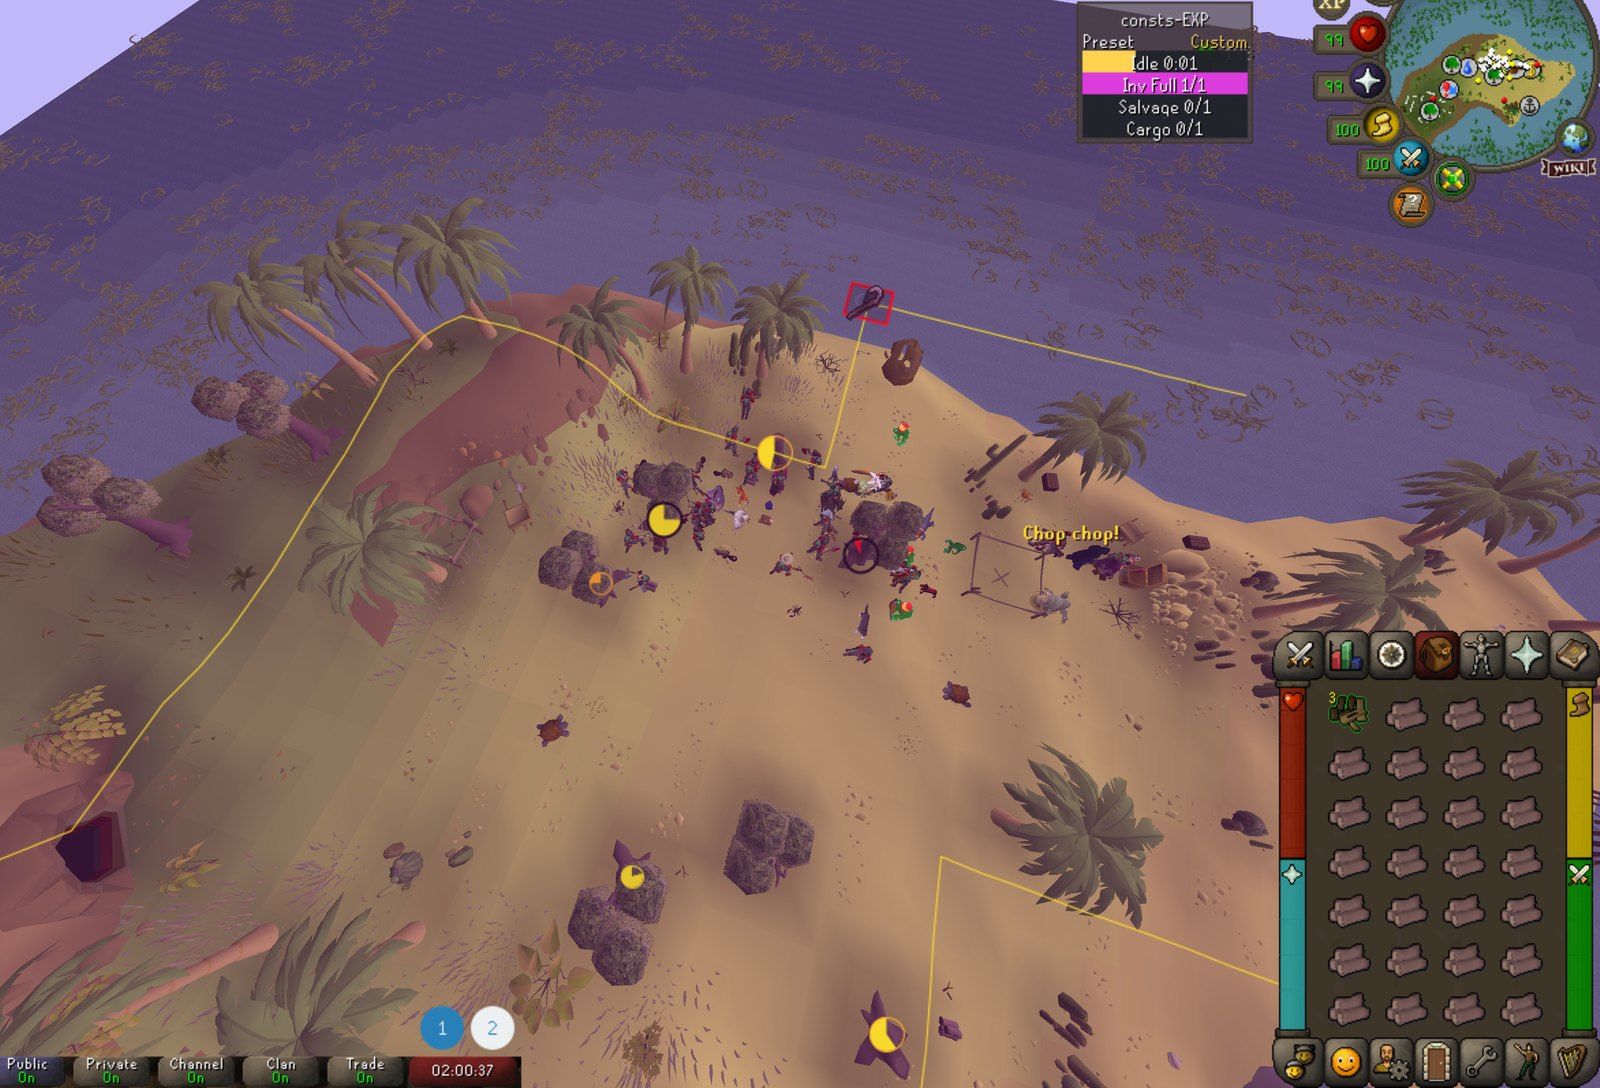
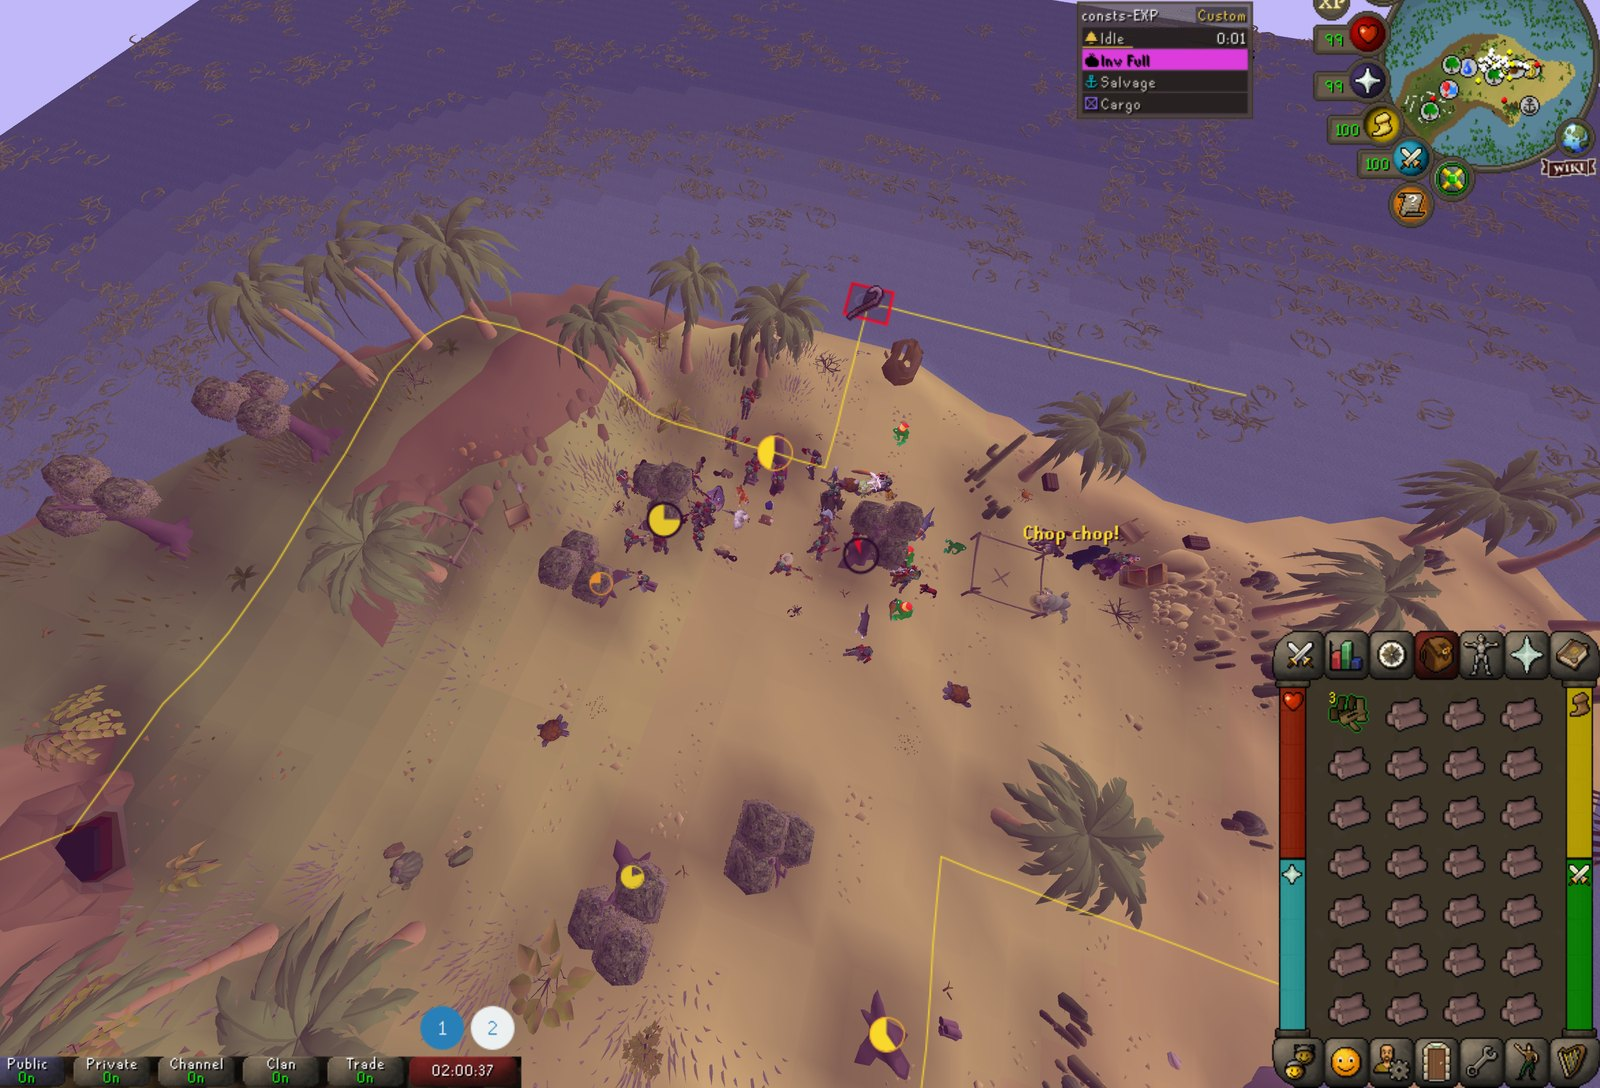
consts-EXP: the README, GIF and screenshots show the new panel
The README's status panel text says what each row shows: icon, name and
value, the thin line under a quiet row, a firing row that lights up and
pulses, Idle's hourglass, and the pause countdown under the alerts. Show
Animation ID is gone from it, and Idle's hold names the hourglass.

The GIF is cut again from the landing page's hero, now drawn as the new
panel, the way ec20ac9 and the rename cut it: the panel and the flash
around it at 2x, every 80 ms of the 16 s story, identical frames merged,
one 128-color palette. Same size, frames and timing as before.

In the three screenshots from the game, the old panel is replaced by
the new one, rendered headless by the real overlay in each shot's state
(Custom with Idle, Inv Full, Salvage and Cargo; Idle firing at 0:08, or
Idle at 0:01 with Inv Full firing). It is scaled and placed where the
old one was, fitted to it. Behind the panel's translucent box the ground
is un-tinted; where the old bars and text hid it, it is filled in, along
the horizon above the bars, and with the ground from just below in the
strip the shorter panel no longer covers. Only the 16 px blocks around
the panel are re-encoded, with each file's own tables (jpegtran -drop).
They can be retaken in game.

Changed region(s): [[0.6562, 0.0, 0.7812, 0.1562]]

diff --git a/consts-exp/README.md b/consts-exp/README.md
@@ -2,15 +2,15 @@
 
 <img src="icon.png" alt="" width="48" height="72" align="right">
 
-RuneLite plugin for Old School RuneScape ( OSRS ), the all-in-one XP helper. Today that's AFK alerts, with presets for chinning, crabbing, mining, woodcutting, fishing and salvaging. Each alert beeps, flashes the screen in its own color, and shows up as a bar in a top-right status panel. Pick a preset and only the alerts you need are on.
+RuneLite plugin for Old School RuneScape ( OSRS ), the all-in-one XP helper. Today that's AFK alerts, with presets for chinning, crabbing, mining, woodcutting, fishing and salvaging. Each alert beeps, flashes the screen in its own color, and lights up its row in a top-right status panel. Pick a preset and only the alerts you need are on.
 
-![The status panel on the Woodcutting preset: Idle fills and flashes yellow, Inv Full flashes magenta, then Forestry flashes lime and names the event](screenshots/status-panel.gif)
+![The status panel on the Woodcutting preset: the line under Idle fills, then its row flashes yellow, Inv Full flashes magenta, then Forestry flashes lime and names the event](screenshots/status-panel.gif)
 
-![The inventory fills while woodcutting: the screen flashes magenta and the Inv Full bar lights up](screenshots/inventory-full.jpg)
+![The inventory fills while woodcutting: the screen flashes magenta and the Inv Full row lights up](screenshots/inventory-full.jpg)
 
 | Idle | Inventory full |
 |---|---|
-| ![The Idle bar lit yellow, the screen tinted yellow](screenshots/panel-idle.jpg) | ![The Inv Full bar lit magenta, the screen tinted magenta](screenshots/panel-inventory-full.jpg) |
+| ![The Idle row lit yellow, the screen tinted yellow](screenshots/panel-idle.jpg) | ![The Inv Full row lit magenta, the screen tinted magenta](screenshots/panel-inventory-full.jpg) |
 
 Formerly **consts-AFK**, and before that **AFK Alerts**. 2.0.0 starts fresh: every setting is back at its default, and the saved aggro area is gone.
 
@@ -31,7 +31,7 @@ The **Preset** dropdown sits at the top of the plugin config, and of the bell's 
 
 Cannon and Random aren't in any preset; turn them on under **Custom**.
 
-Every preset holds Idle while your character is animating, so a long chop or a slow catch doesn't ding you mid-action; the status panel then shows your current animation. Under **Custom**, **Suppress While Animating** (Idle, on by default) decides.
+Every preset holds Idle while your character is animating, so a long chop or a slow catch doesn't ding you mid-action; an hourglass on Idle's row in the status panel shows it's waiting. Under **Custom**, **Suppress While Animating** (Idle, on by default) decides.
 
 Presets only choose which alerts are on. Thresholds, colors and Dismiss on Click always come from your settings. A preset overrides each alert's Enabled; switch back to **Custom** and your own set comes back, as you last left it.
 
@@ -83,7 +83,7 @@ In **OSRS** mode (the default), Aggro follows the game's own rule, the way RuneL
 
 - The game remembers two tiles, each with a 21×21 area around it. While you stay within 10 tiles of either one, the 10-minute timer keeps running. Step outside both and the older tile moves to where you stand: NPCs are aggressive again for another 10 minutes.
 - **Area lines** outline the area on the ground: translucent yellow while NPCs are still aggressive, solid yellow once they've stopped. Walk past them to reset the timer. **Show Area Lines** (on), **Aggressive Color** and **Unaggressive Color** are at the end of the **Combat: Aggro** section. The lines only show while the preset, or Custom, has Aggro on.
-- **Finding the area.** Until consts-EXP knows where both tiles are (right after you turn it on, or after logging in somewhere new), the bar reads `Aggro ?`. Teleport or take a dungeon entrance: that leaves both areas, so the timer starts and one area is known (`Aggro ? 9:59`). Walk out of it once and the second is known too, and the `?` goes away. Going back near where you teleported from before then makes it unknown again. Or right-click the panel → **Reset Aggro Timer** to start a fresh area where you stand.
+- **Finding the area.** Until consts-EXP knows where both tiles are (right after you turn it on, or after logging in somewhere new), the row reads `Aggro ?`. Teleport or take a dungeon entrance: that leaves both areas, so the timer starts and one area is known (`Aggro ? 9:59`). Walk out of it once and the second is known too, and the `?` goes away. Going back near where you teleported from before then makes it unknown again. Or right-click the panel → **Reset Aggro Timer** to start a fresh area where you stand.
 - **Logging out** saves the area and the time left for that account. Log back in on the same tile and Aggro carries on; anywhere else it starts over, unknown.
 
 In **Custom Minutes** mode Aggro is a plain repeating timer, with no area and no lines.
@@ -162,7 +162,7 @@ Where each preset shines, what its alerts are telling you, and what to tune.
 - **Startup Delay** (`8 s`): nothing fires right after the plugin starts.
 - **Loading screens** (teleports, region changes) don't reset timers or running alerts. Logging out stops running alerts and starts the timers over, except Aggro in OSRS mode: its area and time left are saved per account and carry on if you log back in where you logged out.
 - **Sound**: the system beep by default. **Sound** (General: Sounds) swaps it for one of the game's own sounds (town crier bell, Grand Exchange offer, coins, prayer drained, teleport, tree falling, boop, anvil), or **Custom sound ID** plays any game sound effect by its id. Picking one plays it once. **Volume** (`96` of `127`) plays it even with the game's sound effects off. `Repeat Interval` (`1.2 s`) sets the gap between sounds.
-- **Status panel**: shows the active preset, one bar per enabled alert (hover for details) and the pause countdown. Your current animation shows whenever Idle is waiting for it to stop, or always with `Show Animation ID` (AFK: Idle).
+- **Status panel**: the title, with the active preset as a tag beside it, then one row per enabled alert: its icon, name and value (hover for details). A quiet row stays dark, with a thin line under it: Idle's fills toward its threshold, Logout's toward its warning and Aggro's toward running out, and Health's and Prayer's show your level. A firing row lights up in its color and pulses. An hourglass on Idle's row means it's waiting for your animation to stop. The pause countdown shows under the alerts.
 
 ## Running it
 
